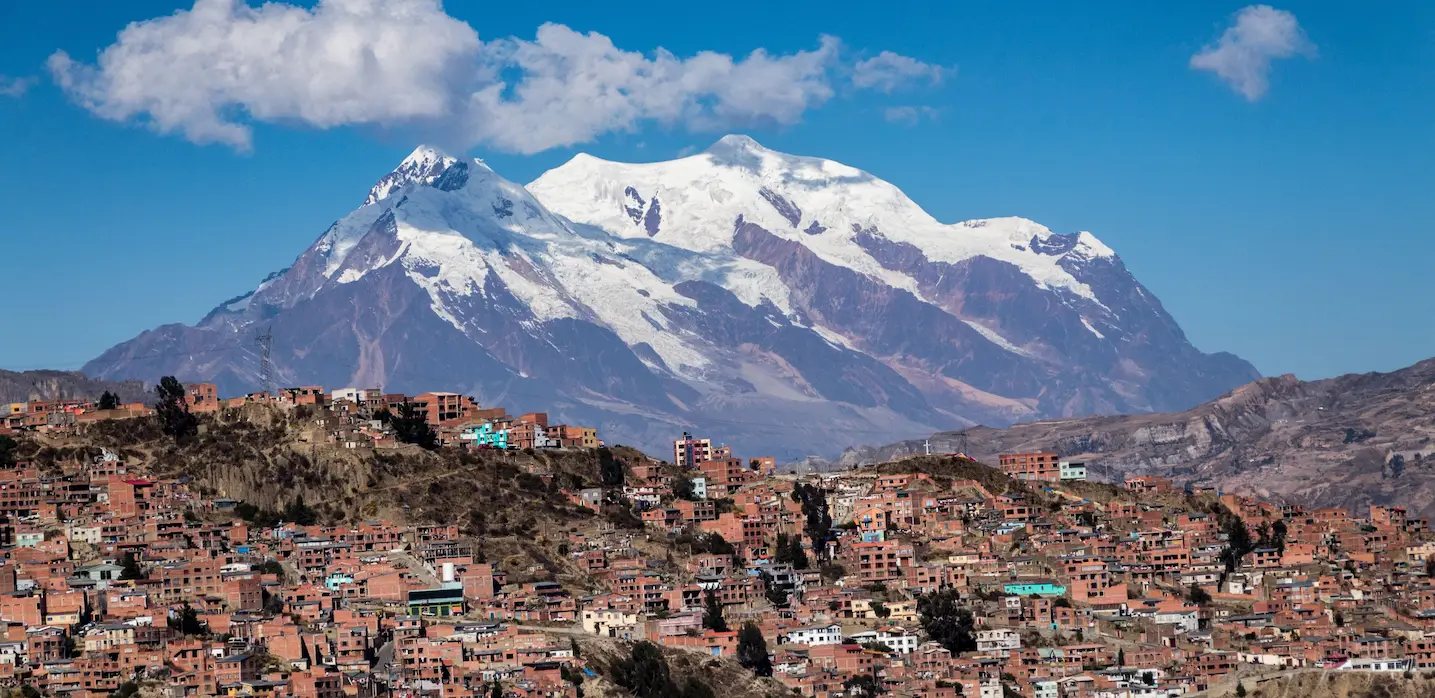
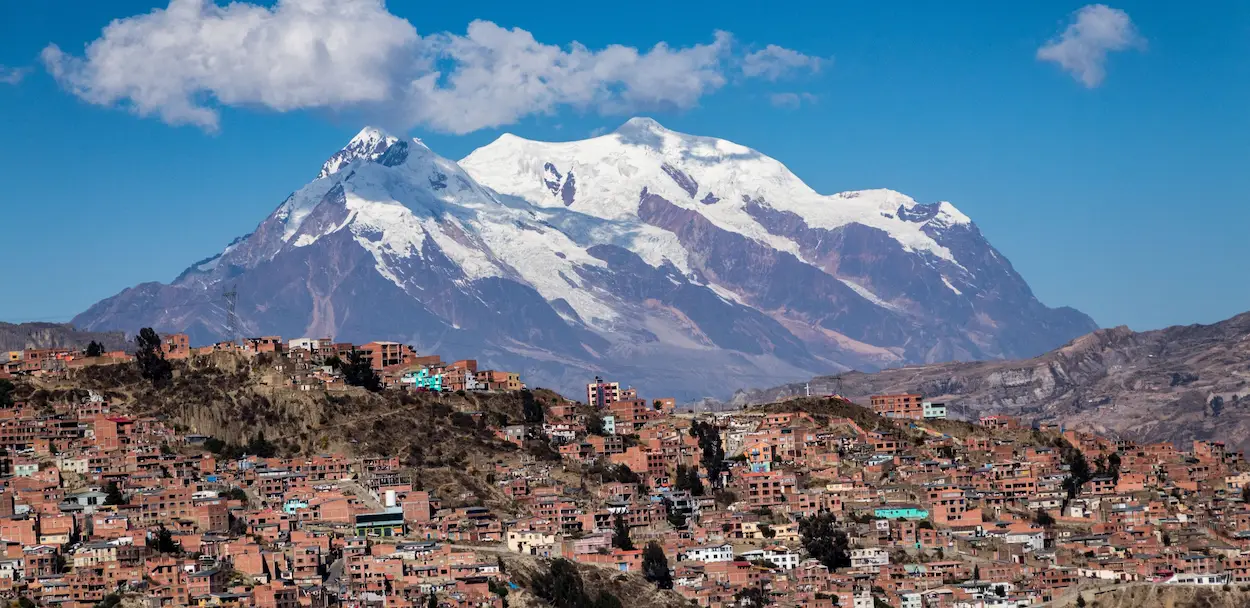
W03 Assignment: Country Page

diff --git a/place.html b/place.html
@@ -3,8 +3,8 @@
 <head>
     <meta charset="UTF-8">
     <meta name="viewport" content="width=device-width, initial-scale=1.0">
-    <title>WDD 131 - Country Page - Andres Sejas</title>
-    <meta name="description" content="WDD 131 - Country Page - Discover La Paz, Bolivia, its geography, culture, and weather details.">
+    <title>My Country Page</title>
+    <meta name="description" content="Discover La Paz, Bolivia, its geography, culture, and weather details.">
     <meta name="author" content="Andres Sejas">
 
     <link rel="stylesheet" href="styles/place.css">
@@ -22,7 +22,7 @@
         <div class="hero">
             <picture>
                 <source media="(min-width: 768px)" srcset="images/la-paz-large.webp">
-                <img src="images/la=paz=small.webp" alt="La Paz and Mount Illimani" width="800" height="500">
+                <img src="images/la-paz-small.webp" alt="La Paz and Mount Illimani" width="800" height="500">
             </picture>
         </div>
 
